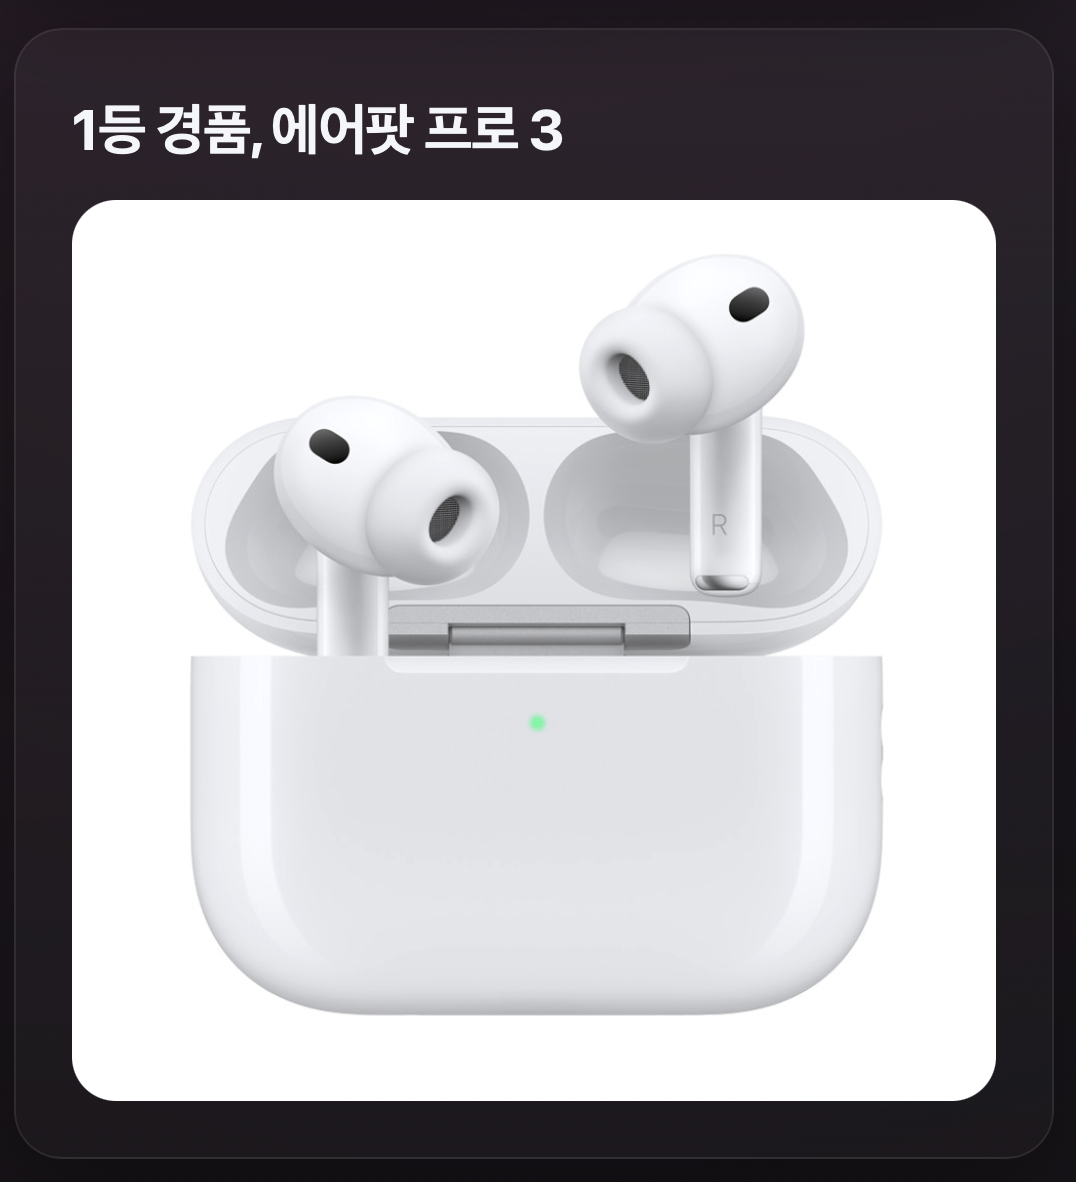
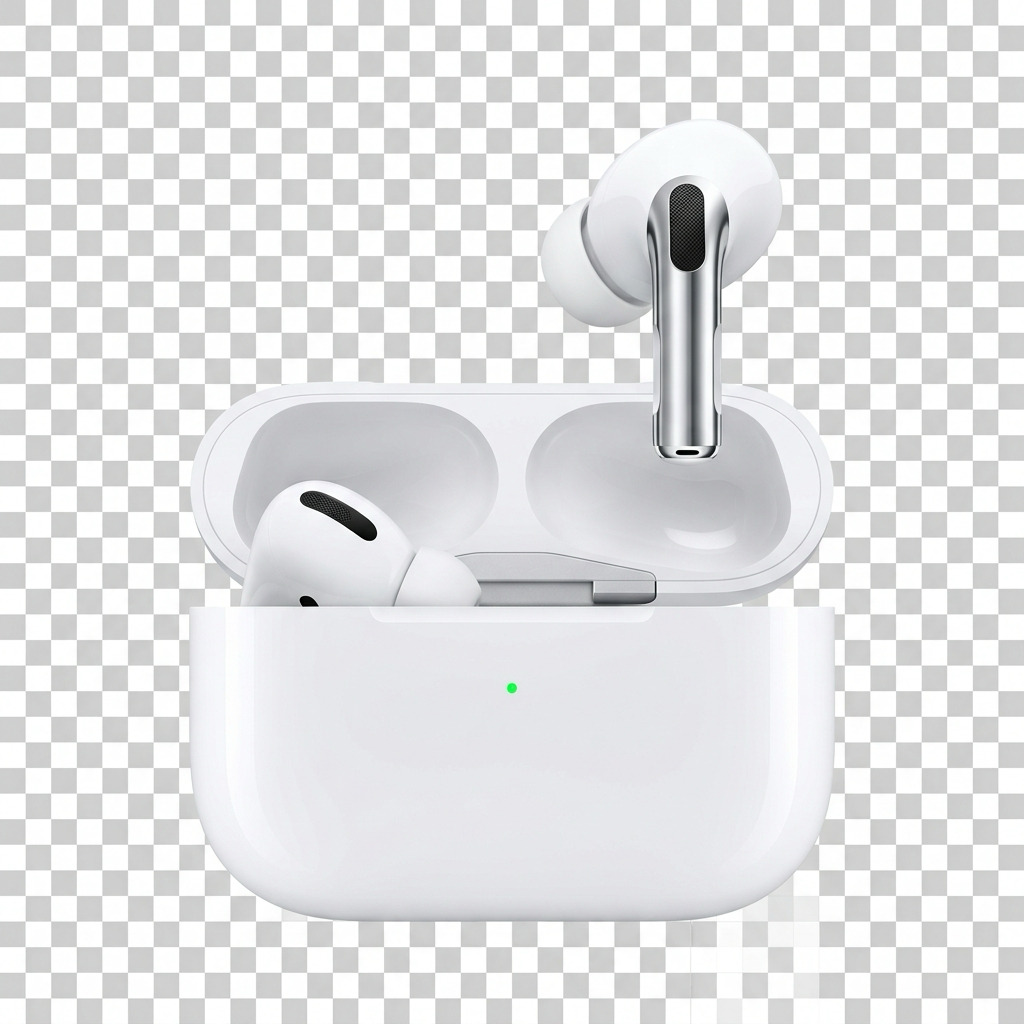
fix(events/invite): \ub77c\ubca8/\ubc15\uc2a4 \uc5c6\ub294 \uc21c\uc218 \uc5d0\uc5b4\ud31f \uc774\ubbf8\uc9c0\ub85c \uad50\uccb4
\ud558\ub9b0\uc544\ube60 \uc9c0\uc2dc: '\uc774\uac70 \ud1b5\uc9f8\ub85c \ub0a0\ub9ac\uace0 \uc5d0\uc5b4\ud31f \uc774\ubbf8\uc9c0\ub85c\ub9cc \uad50\uccb4'

\uae30\uc874 /public/event-airpods.png\ub294 \ub77c\ubca8 '1\ub4f1 \uacbd\ud488, \uc5d0\uc5b4\ud31f \ud504\ub85c 3'\uc774
\ub77c\ubca8\ub9dd\uc774 \uac80\uc740 \uc774\ubbf8\uc9c0 \ud504\ub808\uc784\uc5d0 \ud568\uaed8 \ubc15\ud600\uc788\ub294 \ud569\uc131\ubcf8.
\ub098\ub178\ubc14\ub098\ub098\ub85c \uc21c\uc218 \uc5d0\uc5b4\ud31f+\ucf00\uc774\uc2a4 \uc774\ubbf8\uc9c0 \uc0c8\ub85c \uc0dd\uc131 (1024x1024, \ud76c\uc0c9\ubc30\uacbd).

UI \ub3d9\uc2dc \uc815\ub9ac:
- rounded-2xl bg-white/90 p-6 \ud76c \ubc15\uc2a4 \uc81c\uac70\n- \uc774\ubbf8\uc9c0\ub9cc \ub178\ucd9c, \uc544\ub798 \uac04\ub2e8\ud55c \ucea1\uc158\ub9cc \uc720\uc9c0\n- \ucea1\uc158 \uce05\uc5d0 '1\ub4f1 \uacbd\ud488 \u00b7 \uc5d0\uc5b4\ud31f \ud504\ub85c 3' \uac15\uc2dc + Apple \uacf5\uc2dd\uac00 \uba85\uc2dc

diff --git a/src/app/(main)/events/invite/page.tsx b/src/app/(main)/events/invite/page.tsx
@@ -103,16 +103,18 @@ export default function EventInvitePage() {
             에어팟 프로 3의 주인공이 됩니다.
           </p>
 
-          {/* 에어팟 프로 3 이미지 — 라벨 이미지에 포함됨 */}
-          <div className="rounded-2xl bg-white/90 p-6 flex items-center justify-center">
+          {/* 에어팟 프로 3 이미지만 — 박스/라벨 없이 */}
+          <div className="flex items-center justify-center py-2">
             {/* eslint-disable-next-line @next/next/no-img-element */}
             <img
               src="/event-airpods.png"
-              alt="1등 경품 — 에어팟 프로 3 (Apple ₩369,000, 트랙별 1대씩 총 2대)"
-              className="w-full max-w-[260px] h-auto"
+              alt="1등 경품 — 에어팟 프로 3"
+              className="w-full max-w-[280px] h-auto"
             />
           </div>
-          <p className="mt-3 text-center text-xs text-white/50">
+          <p className="mt-2 text-center text-xs text-white/60">
+            <span className="font-bold text-yellow-400">1등 경품 · 에어팟 프로 3</span>
+            <br />
             Apple 공식가 ₩369,000 · 트랙별 1대씩 · 총 2대
           </p>
         </div>
